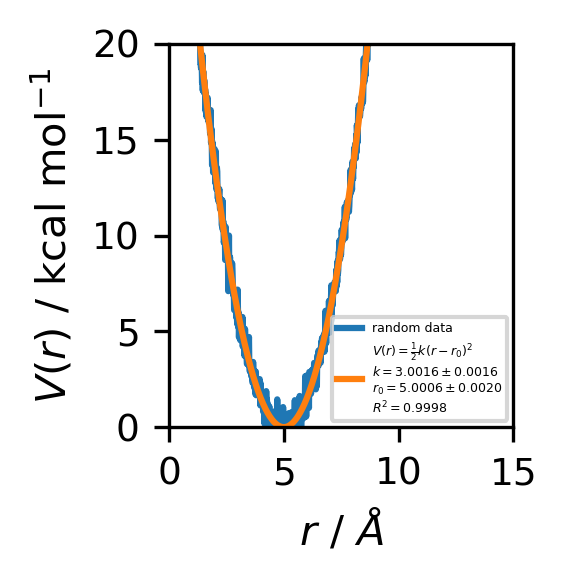
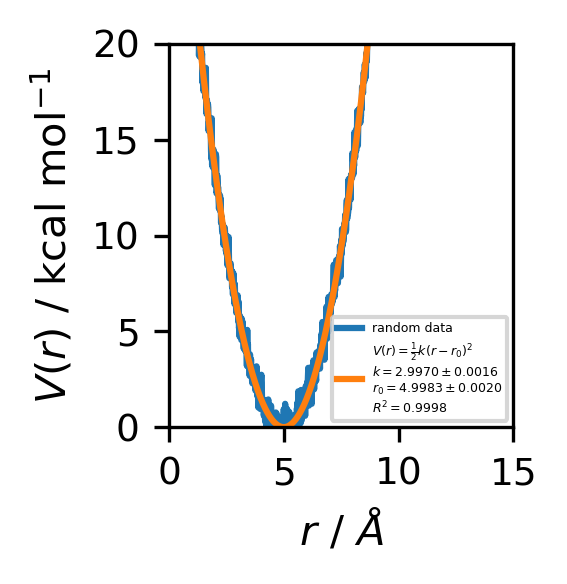
minor rephrasing

diff --git a/_site/templates/matplotlib.html b/_site/templates/matplotlib.html
@@ -699,9 +699,9 @@ A =  1e-10 m</code></pre>
 <span id="cb11-44"><a href="#cb11-44" aria-hidden="true" tabindex="-1"></a>plt.ylim(<span class="dv">0</span>, <span class="dv">20</span>)</span>
 <span id="cb11-45"><a href="#cb11-45" aria-hidden="true" tabindex="-1"></a>plt.show()</span></code><button title="Copy to Clipboard" class="code-copy-button"><i class="bi"></i></button></pre></div>
 <div class="cell-output cell-output-stdout">
-<pre><code>k =  3.0016461673136448  +/-  0.0016072809111451754
-r0 =  5.0006251698707365  +/-  0.001986758738979724
-R2 =  0.9998475717332849</code></pre>
+<pre><code>k =  2.99702829045255  +/-  0.0016207297224434224
+r0 =  4.998313537648443  +/-  0.0020070596091826148
+R2 =  0.9998447906059315</code></pre>
 </div>
 <div class="cell-output cell-output-display">
 <p><img src="matplotlib_files/figure-html/cell-10-output-2.png" class="img-fluid"></p>

diff --git a/_site/exercise_b/checklist_b.html b/_site/exercise_b/checklist_b.html
@@ -255,7 +255,7 @@ ul.task-list li input[type="checkbox"] {
 
 </header>
 
-<p>All data generated along with a discussion of results fit easily on a single page. The images and graphs to be plotted are grouped into three subsections, which should also be grouped together in the protocol.</p>
+<p>All data generated along with a discussion of results fit easily on a single page. The images and graphs to be plotted are grouped into three subsections, which should also be grouped together on the poster.</p>
 <p>Subsection 1 - System Setup and Equilibration:</p>
 <ul class="task-list">
 <li><input type="checkbox" disabled="">A screenshot of the CO<sub>2</sub><span class="citation" data-cites="ZIF-8">@ZIF-8</span> hybrid system including the simulatin box</li>

diff --git a/_site/guides/linux_quickstart_guide.html b/_site/guides/linux_quickstart_guide.html
@@ -353,7 +353,8 @@ code span.wa { color: #60a0b0; font-weight: bold; font-style: italic; } /* Warni
 </thead>
 <tbody>
 <tr class="odd">
-<td colspan="2" style="text-align: left;"><strong>cd</strong> /path/to/directory | Change to directory</td>
+<td style="text-align: left;"><strong>cd</strong> /path/to/directory</td>
+<td style="text-align: left;">Change to directory</td>
 </tr>
 <tr class="even">
 <td style="text-align: left;"><strong>mkdir</strong> [options] directory</td>

diff --git a/_site/guides/python_quickstart.html b/_site/guides/python_quickstart.html
@@ -386,7 +386,7 @@ code span.wa { color: #60a0b0; font-weight: bold; font-style: italic; } /* Warni
 </section>
 <section id="conclusion" class="level2">
 <h2 class="anchored" data-anchor-id="conclusion">Conclusion</h2>
-<p>That’s it for the <code>python</code> tutorial! We’ve covered the basics of variables, data t</p>
+<p>That’s it for the <code>python</code> tutorial!</p>
 
 
 </section>

diff --git a/PR-Advanced-Exercises-for-Theoretical-Chemistry-and-Computational-Chemistry.tex b/PR-Advanced-Exercises-for-Theoretical-Chemistry-and-Computational-Chemistry.tex
@@ -293,7 +293,7 @@ Chemistry}
 \maketitle
 \pagestyle{mystyle}
 
-\ifdefined\Shaded\renewenvironment{Shaded}{\begin{tcolorbox}[frame hidden, enhanced, breakable, colback={shadecolor}, boxrule=0pt]}{\end{tcolorbox}}\fi
+\ifdefined\Shaded\renewenvironment{Shaded}{\begin{tcolorbox}[colback={shadecolor}, breakable, enhanced, boxrule=0pt, frame hidden]}{\end{tcolorbox}}\fi
 
 \renewcommand*\contentsname{Table of contents}
 {
@@ -466,7 +466,7 @@ transferable machine learning force field'' Matter 2025, 8, 102203 DOI:
 \hypertarget{howto}{%
 \section{HowTo}\label{howto}}
 
-\begin{tcolorbox}[enhanced jigsaw, coltitle=black, opacityback=0, toprule=.15mm, breakable, opacitybacktitle=0.6, colframe=quarto-callout-warning-color-frame, leftrule=.75mm, colbacktitle=quarto-callout-warning-color!10!white, colback=white, bottomtitle=1mm, left=2mm, titlerule=0mm, toptitle=1mm, rightrule=.15mm, arc=.35mm, title=\textcolor{quarto-callout-warning-color}{\faExclamationTriangle}\hspace{0.5em}{Warning}, bottomrule=.15mm]
+\begin{tcolorbox}[enhanced jigsaw, colback=white, bottomrule=.15mm, colbacktitle=quarto-callout-warning-color!10!white, rightrule=.15mm, toprule=.15mm, leftrule=.75mm, opacityback=0, title=\textcolor{quarto-callout-warning-color}{\faExclamationTriangle}\hspace{0.5em}{Warning}, left=2mm, bottomtitle=1mm, toptitle=1mm, coltitle=black, titlerule=0mm, breakable, arc=.35mm, colframe=quarto-callout-warning-color-frame, opacitybacktitle=0.6]
 
 Links to the \textbf{Google Sheets} with the assigned temperatures and
 carbon dioxide loadings:
@@ -491,7 +491,7 @@ for Part \protect\hyperlink{part-b.2-thermal-expansion-of-zif-8}{B.2}.
 The carbon dioxide loadings will be used for the simulations in Part
 \protect\hyperlink{part-b.1-gas-simulation-in-zif-8}{B.1}
 
-\begin{tcolorbox}[enhanced jigsaw, coltitle=black, opacityback=0, toprule=.15mm, breakable, opacitybacktitle=0.6, colframe=quarto-callout-important-color-frame, leftrule=.75mm, colbacktitle=quarto-callout-important-color!10!white, colback=white, bottomtitle=1mm, left=2mm, titlerule=0mm, toptitle=1mm, rightrule=.15mm, arc=.35mm, title=\textcolor{quarto-callout-important-color}{\faExclamation}\hspace{0.5em}{Important}, bottomrule=.15mm]
+\begin{tcolorbox}[enhanced jigsaw, colback=white, bottomrule=.15mm, colbacktitle=quarto-callout-important-color!10!white, rightrule=.15mm, toprule=.15mm, leftrule=.75mm, opacityback=0, title=\textcolor{quarto-callout-important-color}{\faExclamation}\hspace{0.5em}{Important}, left=2mm, bottomtitle=1mm, toptitle=1mm, coltitle=black, titlerule=0mm, breakable, arc=.35mm, colframe=quarto-callout-important-color-frame, opacitybacktitle=0.6]
 
 Before you run any simulations, please make sure you know your assigned
 \textbf{TEMPERATURES} values and \textbf{CARBON DIOXIDE LOADINGS}!
@@ -513,7 +513,7 @@ executing the following command:
 \end{Highlighting}
 \end{Shaded}
 
-\begin{tcolorbox}[enhanced jigsaw, coltitle=black, opacityback=0, toprule=.15mm, breakable, opacitybacktitle=0.6, colframe=quarto-callout-important-color-frame, leftrule=.75mm, colbacktitle=quarto-callout-important-color!10!white, colback=white, bottomtitle=1mm, left=2mm, titlerule=0mm, toptitle=1mm, rightrule=.15mm, arc=.35mm, title=\textcolor{quarto-callout-important-color}{\faExclamation}\hspace{0.5em}{Important}, bottomrule=.15mm]
+\begin{tcolorbox}[enhanced jigsaw, colback=white, bottomrule=.15mm, colbacktitle=quarto-callout-important-color!10!white, rightrule=.15mm, toprule=.15mm, leftrule=.75mm, opacityback=0, title=\textcolor{quarto-callout-important-color}{\faExclamation}\hspace{0.5em}{Important}, left=2mm, bottomtitle=1mm, toptitle=1mm, coltitle=black, titlerule=0mm, breakable, arc=.35mm, colframe=quarto-callout-important-color-frame, opacitybacktitle=0.6]
 
 This command needs to be executed only once per terminal session. If you
 close the terminal, you will need to execute the command again when you
@@ -592,7 +592,7 @@ The directories encoded in the varible \texttt{ZIF\_DIR} contain all
 necessary files for the simulations. The files are organized in the
 following way:
 
-\begin{tcolorbox}[enhanced jigsaw, coltitle=black, opacityback=0, toprule=.15mm, breakable, opacitybacktitle=0.6, colframe=quarto-callout-note-color-frame, leftrule=.75mm, colbacktitle=quarto-callout-note-color!10!white, colback=white, bottomtitle=1mm, left=2mm, titlerule=0mm, toptitle=1mm, rightrule=.15mm, arc=.35mm, title=\textcolor{quarto-callout-note-color}{\faInfo}\hspace{0.5em}{Note}, bottomrule=.15mm]
+\begin{tcolorbox}[enhanced jigsaw, colback=white, bottomrule=.15mm, colbacktitle=quarto-callout-note-color!10!white, rightrule=.15mm, toprule=.15mm, leftrule=.75mm, opacityback=0, title=\textcolor{quarto-callout-note-color}{\faInfo}\hspace{0.5em}{Note}, left=2mm, bottomtitle=1mm, toptitle=1mm, coltitle=black, titlerule=0mm, breakable, arc=.35mm, colframe=quarto-callout-note-color-frame, opacitybacktitle=0.6]
 
 \begin{Shaded}
 \begin{Highlighting}[]
@@ -661,7 +661,7 @@ dioxide molecules in the ZIF-8 framework at the assigned temperature
 values. The carbon dioxide loading is set to the two assigned loadings
 per student.
 
-\begin{tcolorbox}[enhanced jigsaw, coltitle=black, opacityback=0, toprule=.15mm, breakable, opacitybacktitle=0.6, colframe=quarto-callout-note-color-frame, leftrule=.75mm, colbacktitle=quarto-callout-note-color!10!white, colback=white, bottomtitle=1mm, left=2mm, titlerule=0mm, toptitle=1mm, rightrule=.15mm, arc=.35mm, title=\textcolor{quarto-callout-note-color}{\faInfo}\hspace{0.5em}{Note}, bottomrule=.15mm]
+\begin{tcolorbox}[enhanced jigsaw, colback=white, bottomrule=.15mm, colbacktitle=quarto-callout-note-color!10!white, rightrule=.15mm, toprule=.15mm, leftrule=.75mm, opacityback=0, title=\textcolor{quarto-callout-note-color}{\faInfo}\hspace{0.5em}{Note}, left=2mm, bottomtitle=1mm, toptitle=1mm, coltitle=black, titlerule=0mm, breakable, arc=.35mm, colframe=quarto-callout-note-color-frame, opacitybacktitle=0.6]
 
 This part of the exercise is performed twice with the two assigned
 carbon dioxide loadings. The simulations can be run in parallel.
@@ -719,7 +719,7 @@ assigned temperature, generated restart file, and topology file.
       file_prefix   = XXX-01;
 \end{verbatim}
 
-\begin{tcolorbox}[enhanced jigsaw, coltitle=black, opacityback=0, toprule=.15mm, breakable, opacitybacktitle=0.6, colframe=quarto-callout-note-color-frame, leftrule=.75mm, colbacktitle=quarto-callout-note-color!10!white, colback=white, bottomtitle=1mm, left=2mm, titlerule=0mm, toptitle=1mm, rightrule=.15mm, arc=.35mm, title=\textcolor{quarto-callout-note-color}{\faInfo}\hspace{0.5em}{Note}, bottomrule=.15mm]
+\begin{tcolorbox}[enhanced jigsaw, colback=white, bottomrule=.15mm, colbacktitle=quarto-callout-note-color!10!white, rightrule=.15mm, toprule=.15mm, leftrule=.75mm, opacityback=0, title=\textcolor{quarto-callout-note-color}{\faInfo}\hspace{0.5em}{Note}, left=2mm, bottomtitle=1mm, toptitle=1mm, coltitle=black, titlerule=0mm, breakable, arc=.35mm, colframe=quarto-callout-note-color-frame, opacitybacktitle=0.6]
 
 Replace \texttt{XXX} with the assigned temperature value and the
 corresponding restart and topology files. The \texttt{file\_prefix} can
@@ -745,7 +745,7 @@ Start multiple input files one after the other
 \end{Highlighting}
 \end{Shaded}
 
-\begin{tcolorbox}[enhanced jigsaw, coltitle=black, opacityback=0, toprule=.15mm, breakable, opacitybacktitle=0.6, colframe=quarto-callout-important-color-frame, leftrule=.75mm, colbacktitle=quarto-callout-important-color!10!white, colback=white, bottomtitle=1mm, left=2mm, titlerule=0mm, toptitle=1mm, rightrule=.15mm, arc=.35mm, title=\textcolor{quarto-callout-important-color}{\faExclamation}\hspace{0.5em}{Important}, bottomrule=.15mm]
+\begin{tcolorbox}[enhanced jigsaw, colback=white, bottomrule=.15mm, colbacktitle=quarto-callout-important-color!10!white, rightrule=.15mm, toprule=.15mm, leftrule=.75mm, opacityback=0, title=\textcolor{quarto-callout-important-color}{\faExclamation}\hspace{0.5em}{Important}, left=2mm, bottomtitle=1mm, toptitle=1mm, coltitle=black, titlerule=0mm, breakable, arc=.35mm, colframe=quarto-callout-important-color-frame, opacitybacktitle=0.6]
 
 The overall equilibration is split into two stages. The first stage is a
 10 ps NVT equilibration (\texttt{run-01.in}). The second stage is a 10
@@ -804,7 +804,7 @@ squared displacement (MSD)} of the carbon dioxide molecule using the
 \end{Highlighting}
 \end{Shaded}
 
-\begin{tcolorbox}[enhanced jigsaw, coltitle=black, opacityback=0, toprule=.15mm, breakable, opacitybacktitle=0.6, colframe=quarto-callout-important-color-frame, leftrule=.75mm, colbacktitle=quarto-callout-important-color!10!white, colback=white, bottomtitle=1mm, left=2mm, titlerule=0mm, toptitle=1mm, rightrule=.15mm, arc=.35mm, title=\textcolor{quarto-callout-important-color}{\faExclamation}\hspace{0.5em}{Important}, bottomrule=.15mm]
+\begin{tcolorbox}[enhanced jigsaw, colback=white, bottomrule=.15mm, colbacktitle=quarto-callout-important-color!10!white, rightrule=.15mm, toprule=.15mm, leftrule=.75mm, opacityback=0, title=\textcolor{quarto-callout-important-color}{\faExclamation}\hspace{0.5em}{Important}, left=2mm, bottomtitle=1mm, toptitle=1mm, coltitle=black, titlerule=0mm, breakable, arc=.35mm, colframe=quarto-callout-important-color-frame, opacitybacktitle=0.6]
 
 For both assigned carbon dioxide loadings, insert the corresponding
 self-diffusion coefficient values into the \textbf{Google Sheets}.
@@ -836,7 +836,7 @@ tool:
 \end{Highlighting}
 \end{Shaded}
 
-\begin{tcolorbox}[enhanced jigsaw, coltitle=black, opacityback=0, toprule=.15mm, breakable, opacitybacktitle=0.6, colframe=quarto-callout-important-color-frame, leftrule=.75mm, colbacktitle=quarto-callout-important-color!10!white, colback=white, bottomtitle=1mm, left=2mm, titlerule=0mm, toptitle=1mm, rightrule=.15mm, arc=.35mm, title=\textcolor{quarto-callout-important-color}{\faExclamation}\hspace{0.5em}{Important}, bottomrule=.15mm]
+\begin{tcolorbox}[enhanced jigsaw, colback=white, bottomrule=.15mm, colbacktitle=quarto-callout-important-color!10!white, rightrule=.15mm, toprule=.15mm, leftrule=.75mm, opacityback=0, title=\textcolor{quarto-callout-important-color}{\faExclamation}\hspace{0.5em}{Important}, left=2mm, bottomtitle=1mm, toptitle=1mm, coltitle=black, titlerule=0mm, breakable, arc=.35mm, colframe=quarto-callout-important-color-frame, opacitybacktitle=0.6]
 
 For both assigned carbon dioxide loadings, insert the corresponding
 self-diffusion coefficient values into the \textbf{Google Sheets}.
@@ -870,7 +870,7 @@ distribution function (RDF)} of the carbon dioxide molecule using the
 \end{Highlighting}
 \end{Shaded}
 
-\begin{tcolorbox}[enhanced jigsaw, coltitle=black, opacityback=0, toprule=.15mm, breakable, opacitybacktitle=0.6, colframe=quarto-callout-note-color-frame, leftrule=.75mm, colbacktitle=quarto-callout-note-color!10!white, colback=white, bottomtitle=1mm, left=2mm, titlerule=0mm, toptitle=1mm, rightrule=.15mm, arc=.35mm, title=\textcolor{quarto-callout-note-color}{\faInfo}\hspace{0.5em}{Note}, bottomrule=.15mm]
+\begin{tcolorbox}[enhanced jigsaw, colback=white, bottomrule=.15mm, colbacktitle=quarto-callout-note-color!10!white, rightrule=.15mm, toprule=.15mm, leftrule=.75mm, opacityback=0, title=\textcolor{quarto-callout-note-color}{\faInfo}\hspace{0.5em}{Note}, left=2mm, bottomtitle=1mm, toptitle=1mm, coltitle=black, titlerule=0mm, breakable, arc=.35mm, colframe=quarto-callout-note-color-frame, opacitybacktitle=0.6]
 
 The RDF calculation will generate a \texttt{output} file named
 \texttt{rdf-C-C.out} and \texttt{rdf-Zn-C.out}, accordingly. Plot the
@@ -901,7 +901,7 @@ plotting tool.
 \end{Highlighting}
 \end{Shaded}
 
-\begin{tcolorbox}[enhanced jigsaw, coltitle=black, opacityback=0, toprule=.15mm, breakable, opacitybacktitle=0.6, colframe=quarto-callout-note-color-frame, leftrule=.75mm, colbacktitle=quarto-callout-note-color!10!white, colback=white, bottomtitle=1mm, left=2mm, titlerule=0mm, toptitle=1mm, rightrule=.15mm, arc=.35mm, title=\textcolor{quarto-callout-note-color}{\faInfo}\hspace{0.5em}{Note}, bottomrule=.15mm]
+\begin{tcolorbox}[enhanced jigsaw, colback=white, bottomrule=.15mm, colbacktitle=quarto-callout-note-color!10!white, rightrule=.15mm, toprule=.15mm, leftrule=.75mm, opacityback=0, title=\textcolor{quarto-callout-note-color}{\faInfo}\hspace{0.5em}{Note}, left=2mm, bottomtitle=1mm, toptitle=1mm, coltitle=black, titlerule=0mm, breakable, arc=.35mm, colframe=quarto-callout-note-color-frame, opacitybacktitle=0.6]
 
 The \texttt{traj2box} tool generates a box file that can be visualized
 in VMD. The box file contains the unit cell information with \texttt{X}
@@ -997,7 +997,7 @@ assigned temperature, generated restart file, and topology file.
       file_prefix   = zif8-01;
 \end{verbatim}
 
-\begin{tcolorbox}[enhanced jigsaw, coltitle=black, opacityback=0, toprule=.15mm, breakable, opacitybacktitle=0.6, colframe=quarto-callout-note-color-frame, leftrule=.75mm, colbacktitle=quarto-callout-note-color!10!white, colback=white, bottomtitle=1mm, left=2mm, titlerule=0mm, toptitle=1mm, rightrule=.15mm, arc=.35mm, title=\textcolor{quarto-callout-note-color}{\faInfo}\hspace{0.5em}{Note}, bottomrule=.15mm]
+\begin{tcolorbox}[enhanced jigsaw, colback=white, bottomrule=.15mm, colbacktitle=quarto-callout-note-color!10!white, rightrule=.15mm, toprule=.15mm, leftrule=.75mm, opacityback=0, title=\textcolor{quarto-callout-note-color}{\faInfo}\hspace{0.5em}{Note}, left=2mm, bottomtitle=1mm, toptitle=1mm, coltitle=black, titlerule=0mm, breakable, arc=.35mm, colframe=quarto-callout-note-color-frame, opacitybacktitle=0.6]
 
 Replace \texttt{XXX} with the assigned temperature value. The
 \texttt{file\_prefix} can be any name you choose. Please make sure to
@@ -1014,7 +1014,7 @@ different simulation steps.
 \end{Highlighting}
 \end{Shaded}
 
-\begin{tcolorbox}[enhanced jigsaw, coltitle=black, opacityback=0, toprule=.15mm, breakable, opacitybacktitle=0.6, colframe=quarto-callout-note-color-frame, leftrule=.75mm, colbacktitle=quarto-callout-note-color!10!white, colback=white, bottomtitle=1mm, left=2mm, titlerule=0mm, toptitle=1mm, rightrule=.15mm, arc=.35mm, title=\textcolor{quarto-callout-note-color}{\faInfo}\hspace{0.5em}{Note}, bottomrule=.15mm]
+\begin{tcolorbox}[enhanced jigsaw, colback=white, bottomrule=.15mm, colbacktitle=quarto-callout-note-color!10!white, rightrule=.15mm, toprule=.15mm, leftrule=.75mm, opacityback=0, title=\textcolor{quarto-callout-note-color}{\faInfo}\hspace{0.5em}{Note}, left=2mm, bottomtitle=1mm, toptitle=1mm, coltitle=black, titlerule=0mm, breakable, arc=.35mm, colframe=quarto-callout-note-color-frame, opacitybacktitle=0.6]
 
 The overall equilibration is split into two stages. The first stage is a
 10 ps NVT equilibration (\texttt{run-01.in}). The second stage is a 10
@@ -1133,7 +1133,7 @@ simulation, it is essential to ensure that the system is in an
 equilibrium state. However, what constitutes an \emph{equilibrium
 state}?
 
-\begin{tcolorbox}[enhanced jigsaw, coltitle=black, opacityback=0, toprule=.15mm, breakable, opacitybacktitle=0.6, colframe=quarto-callout-important-color-frame, leftrule=.75mm, colbacktitle=quarto-callout-important-color!10!white, colback=white, bottomtitle=1mm, left=2mm, titlerule=0mm, toptitle=1mm, rightrule=.15mm, arc=.35mm, title=\textcolor{quarto-callout-important-color}{\faExclamation}\hspace{0.5em}{An equilibrium state:}, bottomrule=.15mm]
+\begin{tcolorbox}[enhanced jigsaw, colback=white, bottomrule=.15mm, colbacktitle=quarto-callout-important-color!10!white, rightrule=.15mm, toprule=.15mm, leftrule=.75mm, opacityback=0, title=\textcolor{quarto-callout-important-color}{\faExclamation}\hspace{0.5em}{An equilibrium state:}, left=2mm, bottomtitle=1mm, toptitle=1mm, coltitle=black, titlerule=0mm, breakable, arc=.35mm, colframe=quarto-callout-important-color-frame, opacitybacktitle=0.6]
 
 can be defined as a state in which macroscopic properties \(A\)
 (\emph{e.g} temperture \(T\), pressure \(P\), energies \(E\), volume
@@ -1396,7 +1396,7 @@ vs.~Temperature}\label{plot-lattice-parameter-vs.-temperature}}
 
 \end{figure}
 
-\begin{tcolorbox}[enhanced jigsaw, coltitle=black, opacityback=0, toprule=.15mm, breakable, opacitybacktitle=0.6, colframe=quarto-callout-note-color-frame, leftrule=.75mm, colbacktitle=quarto-callout-note-color!10!white, colback=white, bottomtitle=1mm, left=2mm, titlerule=0mm, toptitle=1mm, rightrule=.15mm, arc=.35mm, title=\textcolor{quarto-callout-note-color}{\faInfo}\hspace{0.5em}{Experimental Measurement Data is available from:}, bottomrule=.15mm]
+\begin{tcolorbox}[enhanced jigsaw, colback=white, bottomrule=.15mm, colbacktitle=quarto-callout-note-color!10!white, rightrule=.15mm, toprule=.15mm, leftrule=.75mm, opacityback=0, title=\textcolor{quarto-callout-note-color}{\faInfo}\hspace{0.5em}{Experimental Measurement Data is available from:}, left=2mm, bottomtitle=1mm, toptitle=1mm, coltitle=black, titlerule=0mm, breakable, arc=.35mm, colframe=quarto-callout-note-color-frame, opacitybacktitle=0.6]
 
 X-ray Diffraction (XRD)
 
@@ -1459,7 +1459,7 @@ with the probability \(G(r)\) \[
 N_{ab}(r) = \rho G_{ab}(r)
 \]
 
-\begin{tcolorbox}[enhanced jigsaw, coltitle=black, opacityback=0, toprule=.15mm, breakable, opacitybacktitle=0.6, colframe=quarto-callout-tip-color-frame, leftrule=.75mm, colbacktitle=quarto-callout-tip-color!10!white, colback=white, bottomtitle=1mm, left=2mm, titlerule=0mm, toptitle=1mm, rightrule=.15mm, arc=.35mm, title=\textcolor{quarto-callout-tip-color}{\faLightbulb}\hspace{0.5em}{Dirac-Delta Function}, bottomrule=.15mm]
+\begin{tcolorbox}[enhanced jigsaw, colback=white, bottomrule=.15mm, colbacktitle=quarto-callout-tip-color!10!white, rightrule=.15mm, toprule=.15mm, leftrule=.75mm, opacityback=0, title=\textcolor{quarto-callout-tip-color}{\faLightbulb}\hspace{0.5em}{Dirac-Delta Function}, left=2mm, bottomtitle=1mm, toptitle=1mm, coltitle=black, titlerule=0mm, breakable, arc=.35mm, colframe=quarto-callout-tip-color-frame, opacitybacktitle=0.6]
 
 \[
 \delta(x-x_0) =  \begin{cases}
@@ -1536,7 +1536,7 @@ the MSD is not linear. Only at higher correleation times the expected
 diffusion (see Figure Figure~\ref{fig-msd} (b)) behaviour can be
 observed.
 
-\begin{tcolorbox}[enhanced jigsaw, coltitle=black, opacityback=0, toprule=.15mm, breakable, opacitybacktitle=0.6, colframe=quarto-callout-tip-color-frame, leftrule=.75mm, colbacktitle=quarto-callout-tip-color!10!white, colback=white, bottomtitle=1mm, left=2mm, titlerule=0mm, toptitle=1mm, rightrule=.15mm, arc=.35mm, title=\textcolor{quarto-callout-tip-color}{\faLightbulb}\hspace{0.5em}{Question:}, bottomrule=.15mm]
+\begin{tcolorbox}[enhanced jigsaw, colback=white, bottomrule=.15mm, colbacktitle=quarto-callout-tip-color!10!white, rightrule=.15mm, toprule=.15mm, leftrule=.75mm, opacityback=0, title=\textcolor{quarto-callout-tip-color}{\faLightbulb}\hspace{0.5em}{Question:}, left=2mm, bottomtitle=1mm, toptitle=1mm, coltitle=black, titlerule=0mm, breakable, arc=.35mm, colframe=quarto-callout-tip-color-frame, opacitybacktitle=0.6]
 
 \begin{itemize}
 \tightlist
@@ -1551,7 +1551,7 @@ observed.
 
 \end{tcolorbox}
 
-\begin{tcolorbox}[enhanced jigsaw, coltitle=black, opacityback=0, toprule=.15mm, breakable, opacitybacktitle=0.6, colframe=quarto-callout-caution-color-frame, leftrule=.75mm, colbacktitle=quarto-callout-caution-color!10!white, colback=white, bottomtitle=1mm, left=2mm, titlerule=0mm, toptitle=1mm, rightrule=.15mm, arc=.35mm, title=\textcolor{quarto-callout-caution-color}{\faFire}\hspace{0.5em}{Answer:}, bottomrule=.15mm]
+\begin{tcolorbox}[enhanced jigsaw, colback=white, bottomrule=.15mm, colbacktitle=quarto-callout-caution-color!10!white, rightrule=.15mm, toprule=.15mm, leftrule=.75mm, opacityback=0, title=\textcolor{quarto-callout-caution-color}{\faFire}\hspace{0.5em}{Answer:}, left=2mm, bottomtitle=1mm, toptitle=1mm, coltitle=black, titlerule=0mm, breakable, arc=.35mm, colframe=quarto-callout-caution-color-frame, opacitybacktitle=0.6]
 
 The self-diffusion coefficient is the slope of the MSD divided by 2
 \(\cdot\;d\).
@@ -1765,7 +1765,7 @@ Ea(n))}
 
 All data generated along with a discussion of results fit easily on a
 single page. The images and graphs to be plotted are grouped into three
-subsections, which should also be grouped together in the protocol.
+subsections, which should also be grouped together on the poster.
 
 Subsection 1 - System Setup and Equilibration:
 
@@ -2246,9 +2246,9 @@ $\mu = \frac{m_1 \cdot m_2}{m_1 + m_2}$ in g $\cdot$ mol $^{-1}$
 \end{Shaded}
 
 \begin{verbatim}
-k =  3.001503538170058  +/-  0.0015417327144150068
-r0 =  5.002509931148734  +/-  0.001905368359994784
-R2 =  0.9998595810176685
+k =  3.0020470312122414  +/-  0.0016141451558744756
+r0 =  5.002549299033987  +/-  0.001994488998417681
+R2 =  0.9998461055077988
 \end{verbatim}
 
 \begin{figure}[H]
@@ -2361,8 +2361,7 @@ description
 \end{minipage} \\
 \midrule()
 \endhead
-\multicolumn{2}{@{}>{\raggedright\arraybackslash}p{(\columnwidth - 2\tabcolsep) * \real{0.9722} + 2\tabcolsep}@{}}{%
-\textbf{cd} /path/to/directory \textbar{} Change to directory} \\
+\textbf{cd} /path/to/directory & Change to directory \\
 \textbf{mkdir} {[}options{]} directory & Create a new directory \\
 \textbf{touch} filename & Create an empty file with the specified
 name \\
@@ -2474,7 +2473,7 @@ On the desktop computers in the office you can search the history with
 then be autocompleted by searching in the history for matching commands
 you entered before.
 
-\begin{tcolorbox}[enhanced jigsaw, coltitle=black, opacityback=0, toprule=.15mm, breakable, opacitybacktitle=0.6, colframe=quarto-callout-note-color-frame, leftrule=.75mm, colbacktitle=quarto-callout-note-color!10!white, colback=white, bottomtitle=1mm, left=2mm, titlerule=0mm, toptitle=1mm, rightrule=.15mm, arc=.35mm, title=\textcolor{quarto-callout-note-color}{\faInfo}\hspace{0.5em}{Note}, bottomrule=.15mm]
+\begin{tcolorbox}[enhanced jigsaw, colback=white, bottomrule=.15mm, colbacktitle=quarto-callout-note-color!10!white, rightrule=.15mm, toprule=.15mm, leftrule=.75mm, opacityback=0, title=\textcolor{quarto-callout-note-color}{\faInfo}\hspace{0.5em}{Note}, left=2mm, bottomtitle=1mm, toptitle=1mm, coltitle=black, titlerule=0mm, breakable, arc=.35mm, colframe=quarto-callout-note-color-frame, opacitybacktitle=0.6]
 
 If you want quick access to files or directories in your home folder,
 the \texttt{\textasciitilde{}}-symbol is an alias for your home
@@ -2584,7 +2583,7 @@ and "kiwi"), use:
 \end{Highlighting}
 \end{Shaded}
 
-\begin{tcolorbox}[enhanced jigsaw, coltitle=black, opacityback=0, toprule=.15mm, breakable, opacitybacktitle=0.6, colframe=quarto-callout-note-color-frame, leftrule=.75mm, colbacktitle=quarto-callout-note-color!10!white, colback=white, bottomtitle=1mm, left=2mm, titlerule=0mm, toptitle=1mm, rightrule=.15mm, arc=.35mm, title=\textcolor{quarto-callout-note-color}{\faInfo}\hspace{0.5em}{Note}, bottomrule=.15mm]
+\begin{tcolorbox}[enhanced jigsaw, colback=white, bottomrule=.15mm, colbacktitle=quarto-callout-note-color!10!white, rightrule=.15mm, toprule=.15mm, leftrule=.75mm, opacityback=0, title=\textcolor{quarto-callout-note-color}{\faInfo}\hspace{0.5em}{Note}, left=2mm, bottomtitle=1mm, toptitle=1mm, coltitle=black, titlerule=0mm, breakable, arc=.35mm, colframe=quarto-callout-note-color-frame, opacitybacktitle=0.6]
 
 Note that symbols, numbers, words, strings can be replaced with a white
 space (" ") to separate columns which can be printed with \texttt{gawk}.
@@ -3008,8 +3007,7 @@ This will call the \texttt{greet} function with the argument
 \hypertarget{conclusion}{%
 \subsection{Conclusion}\label{conclusion}}
 
-That's it for the \texttt{python} tutorial! We've covered the basics of
-variables, data t
+That's it for the \texttt{python} tutorial!
 
 \hypertarget{data-visualization}{%
 \section{Data Visualization}\label{data-visualization}}
